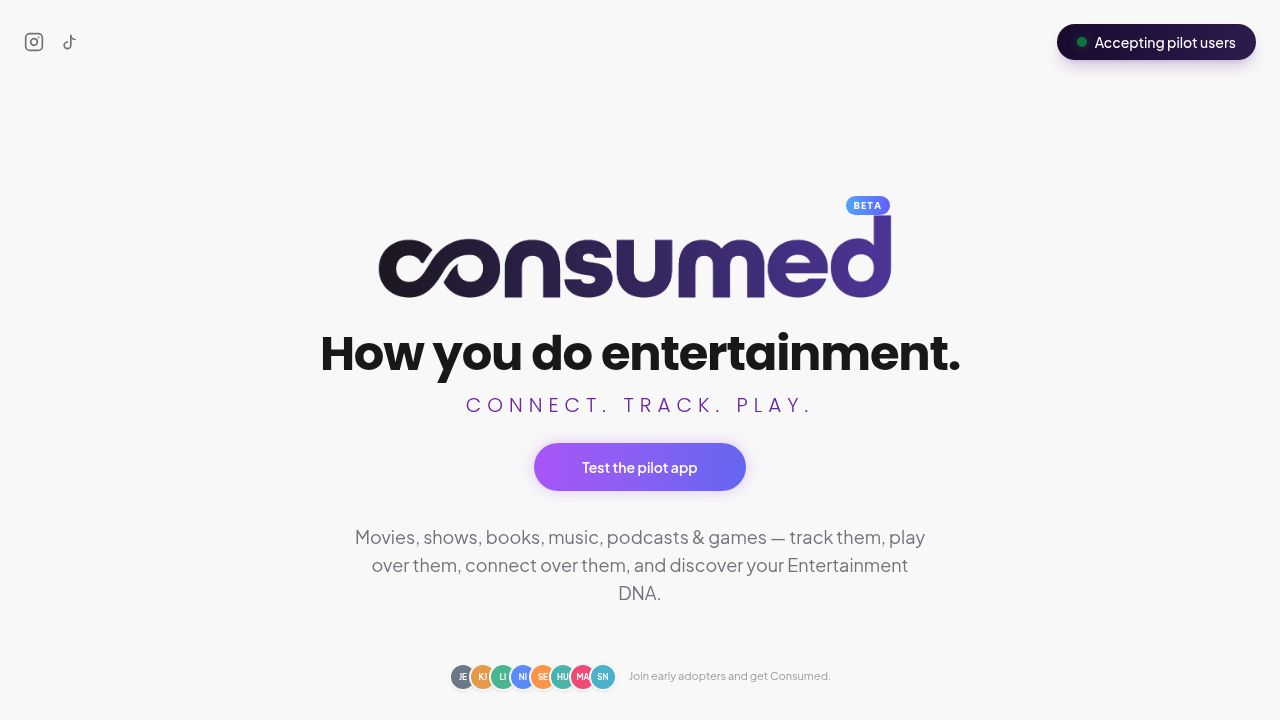
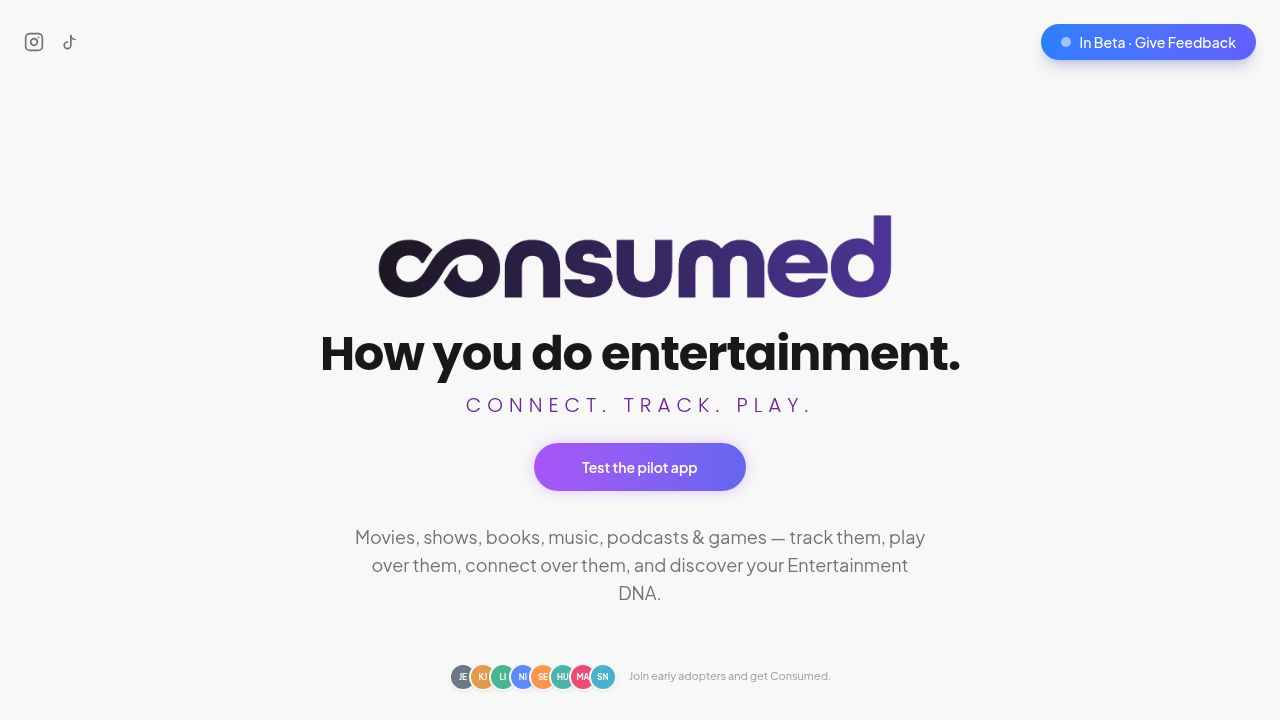
Add a way for users to submit feedback directly through the application
Integrates a new feedback form and modal into the React frontend, updates API routes to handle feedback submission, and modifies the storage layer to persist feedback data to the database.

Replit-Commit-Author: Agent
Replit-Commit-Session-Id: 1054afe4-a81a-4bfc-9d50-b308ff59b433
Replit-Commit-Checkpoint-Type: full_checkpoint
Replit-Commit-Event-Id: 7b5fe816-258e-4707-9f8c-019a9b3d6581
Replit-Commit-Screenshot-Url: https://storage.googleapis.com/screenshot-production-us-central1/3ba4014b-a542-439a-b8e3-25ffaea1718b/1054afe4-a81a-4bfc-9d50-b308ff59b433/bXGSChU
Replit-Helium-Checkpoint-Created: true

Changed region(s): [[0.8125, 0.0306, 1.0, 0.0917], [0.6562, 0.275, 0.7188, 0.3056]]

diff --git a/client/src/pages/home.tsx b/client/src/pages/home.tsx
@@ -3,7 +3,7 @@ import { motion, AnimatePresence } from "framer-motion";
 import { Smartphone, Globe, Music, Gamepad2, Tv, Film, BookOpen, Mic, Star, TrendingUp, Activity, Search, User, UserCircle, Plus, Share2, Download, RefreshCw, MoreHorizontal, Play, Heart, MessageSquare, Trophy, ChevronRight, Instagram, Bell, X, Loader2, Dna, ListChecks, Dice5, Users } from "lucide-react";
 import { Button } from "@/components/ui/button";
 import { Carousel, CarouselContent, CarouselItem, CarouselNext, CarouselPrevious } from "@/components/ui/carousel";
-import { Dialog, DialogContent, DialogHeader, DialogTitle } from "@/components/ui/dialog";
+import { Dialog, DialogContent, DialogHeader, DialogTitle, DialogDescription } from "@/components/ui/dialog";
 import { Input } from "@/components/ui/input";
 import bgImage from "@assets/generated_images/subtle_dark_purple_and_black_mesh_gradient_professional_background.png";
 import logoPurple from "@assets/consumed_logo_purple_crop_1769629036769.png";
@@ -40,9 +40,15 @@ export default function Home() {
   ];
   const [index, setIndex] = useState(0);
   const [isModalOpen, setIsModalOpen] = useState(false);
+  const [isFeedbackOpen, setIsFeedbackOpen] = useState(false);
   const [email, setEmail] = useState("");
+  const [feedbackEmail, setFeedbackEmail] = useState("");
+  const [feedbackMessage, setFeedbackMessage] = useState("");
+  const [feedbackSubmitted, setFeedbackSubmitted] = useState(false);
   const [isSubmitting, setIsSubmitting] = useState(false);
+  const [isFeedbackSubmitting, setIsFeedbackSubmitting] = useState(false);
   const [submitMessage, setSubmitMessage] = useState<{ type: 'success' | 'error', text: string } | null>(null);
+  const [feedbackError, setFeedbackError] = useState<string | null>(null);
 
   useEffect(() => {
     const interval = setInterval(() => {
@@ -94,6 +100,32 @@ export default function Home() {
     }
   };
 
+  const handleFeedback = async (e: React.FormEvent) => {
+    e.preventDefault();
+    if (!feedbackMessage.trim()) return;
+    setIsFeedbackSubmitting(true);
+    setFeedbackError(null);
+    try {
+      const response = await fetch('/api/feedback', {
+        method: 'POST',
+        headers: { 'Content-Type': 'application/json' },
+        body: JSON.stringify({ email: feedbackEmail || undefined, message: feedbackMessage }),
+      });
+      const data = await response.json();
+      if (response.ok) {
+        setFeedbackSubmitted(true);
+        setFeedbackEmail("");
+        setFeedbackMessage("");
+      } else {
+        setFeedbackError(data.error || 'Something went wrong.');
+      }
+    } catch {
+      setFeedbackError('Failed to connect. Please try again.');
+    } finally {
+      setIsFeedbackSubmitting(false);
+    }
+  };
+
   return (
     <div className="min-h-screen bg-[#f8f8f8] text-zinc-900 overflow-x-hidden selection:bg-primary/30">
       {/* Background */}
@@ -115,13 +147,14 @@ export default function Home() {
           transition={{ delay: 0.1 }}
           className="flex items-center gap-6"
         >
-          <a 
-            href="mailto:feedback@consumedapp.com?subject=Consumed Beta Feedback"
+          <button
+            data-testid="button-feedback"
+            onClick={() => { setIsFeedbackOpen(true); setFeedbackSubmitted(false); }}
             className="flex items-center space-x-2 bg-gradient-to-r from-blue-500 to-indigo-500 rounded-full px-3 py-1.5 md:px-5 md:py-2 shadow-lg shadow-blue-900/20 hover:opacity-90 transition-all"
           >
             <span className="flex h-2 w-2 md:h-2.5 md:w-2.5 rounded-full bg-white animate-pulse flex-shrink-0"></span>
             <span className="text-xs md:text-sm font-medium text-white font-body whitespace-nowrap">In Beta · Give Feedback</span>
-          </a>
+          </button>
         </motion.div>
       </nav>
 
@@ -418,6 +451,72 @@ export default function Home() {
                     "Notify me"
                   )}
                 </Button>
+              </form>
+            </>
+          )}
+        </DialogContent>
+      </Dialog>
+
+      {/* Feedback Modal */}
+      <Dialog open={isFeedbackOpen} onOpenChange={(open) => { setIsFeedbackOpen(open); if (!open) setFeedbackSubmitted(false); }}>
+        <DialogContent className="bg-white rounded-2xl border border-zinc-100 shadow-2xl max-w-md w-full p-8">
+          {feedbackSubmitted ? (
+            <div className="flex flex-col items-center gap-4 py-6 text-center">
+              <div className="w-14 h-14 rounded-full bg-gradient-to-br from-purple-100 to-indigo-100 flex items-center justify-center">
+                <svg className="w-7 h-7 text-purple-600" fill="none" viewBox="0 0 24 24" stroke="currentColor" strokeWidth={2}>
+                  <path strokeLinecap="round" strokeLinejoin="round" d="M5 13l4 4L19 7" />
+                </svg>
+              </div>
+              <h2 className="text-2xl font-bold text-zinc-900 font-heading">Thanks so much!</h2>
+              <p className="text-zinc-500 font-body text-sm leading-relaxed">Your feedback helps shape Consumed. We read every single message.</p>
+              <button
+                onClick={() => setIsFeedbackOpen(false)}
+                className="mt-2 px-6 py-2.5 rounded-full bg-gradient-to-r from-[#a855f7] to-[#6366f1] text-white text-sm font-semibold hover:opacity-90 transition-all font-body"
+              >
+                Done
+              </button>
+            </div>
+          ) : (
+            <>
+              <DialogHeader className="mb-6">
+                <DialogTitle className="text-2xl font-bold text-zinc-900 font-heading">Give Feedback</DialogTitle>
+                <DialogDescription className="text-zinc-500 font-body text-sm mt-1">
+                  Tell us what you love, what's broken, or what you'd love to see.
+                </DialogDescription>
+              </DialogHeader>
+              <form onSubmit={handleFeedback} className="flex flex-col gap-4">
+                <input
+                  type="email"
+                  placeholder="Your email (optional)"
+                  value={feedbackEmail}
+                  onChange={(e) => setFeedbackEmail(e.target.value)}
+                  data-testid="input-feedback-email"
+                  className="w-full h-11 px-4 rounded-xl border border-zinc-200 bg-zinc-50 text-sm font-body text-zinc-800 placeholder:text-zinc-400 focus:outline-none focus:ring-2 focus:ring-purple-300"
+                />
+                <textarea
+                  placeholder="What's on your mind?"
+                  value={feedbackMessage}
+                  onChange={(e) => setFeedbackMessage(e.target.value)}
+                  required
+                  rows={5}
+                  data-testid="input-feedback-message"
+                  className="w-full px-4 py-3 rounded-xl border border-zinc-200 bg-zinc-50 text-sm font-body text-zinc-800 placeholder:text-zinc-400 focus:outline-none focus:ring-2 focus:ring-purple-300 resize-none"
+                />
+                {feedbackError && (
+                  <p className="text-red-500 text-xs font-body">{feedbackError}</p>
+                )}
+                <button
+                  type="submit"
+                  disabled={isFeedbackSubmitting || !feedbackMessage.trim()}
+                  data-testid="button-submit-feedback"
+                  className="w-full h-11 text-sm font-semibold rounded-full bg-gradient-to-r from-[#a855f7] to-[#6366f1] text-white hover:opacity-90 transition-all active:scale-95 shadow-[0_0_15px_rgba(168,85,247,0.3)] font-body disabled:opacity-50 disabled:cursor-not-allowed"
+                >
+                  {isFeedbackSubmitting ? (
+                    <Loader2 className="h-4 w-4 animate-spin mx-auto" />
+                  ) : (
+                    "Send Feedback"
+                  )}
+                </button>
               </form>
             </>
           )}

diff --git a/server/storage.ts b/server/storage.ts
@@ -1,4 +1,4 @@
-import { type User, type InsertUser, type Subscriber, type InsertSubscriber, users, subscribers } from "@shared/schema";
+import { type User, type InsertUser, type Subscriber, type InsertSubscriber, type Feedback, type InsertFeedback, users, subscribers, feedback } from "@shared/schema";
 import { db } from "./db";
 import { eq } from "drizzle-orm";
 
@@ -8,6 +8,7 @@ export interface IStorage {
   createUser(user: InsertUser): Promise<User>;
   addSubscriber(email: string): Promise<Subscriber>;
   getSubscriberByEmail(email: string): Promise<Subscriber | undefined>;
+  addFeedback(data: InsertFeedback): Promise<Feedback>;
 }
 
 export class DatabaseStorage implements IStorage {
@@ -34,6 +35,11 @@ export class DatabaseStorage implements IStorage {
   async getSubscriberByEmail(email: string): Promise<Subscriber | undefined> {
     const [subscriber] = await db.select().from(subscribers).where(eq(subscribers.email, email));
     return subscriber;
+  }
+
+  async addFeedback(data: InsertFeedback): Promise<Feedback> {
+    const [entry] = await db.insert(feedback).values(data).returning();
+    return entry;
   }
 }
 

diff --git a/server/routes.ts b/server/routes.ts
@@ -1,7 +1,7 @@
 import type { Express } from "express";
 import { createServer, type Server } from "http";
 import { storage } from "./storage";
-import { insertSubscriberSchema } from "@shared/schema";
+import { insertSubscriberSchema, insertFeedbackSchema } from "@shared/schema";
 
 export async function registerRoutes(
   httpServer: Server,
@@ -24,6 +24,20 @@ export async function registerRoutes(
     } catch (error) {
       console.error("Subscribe error:", error);
       return res.status(500).json({ error: "Something went wrong" });
+    }
+  });
+
+  app.post("/api/feedback", async (req, res) => {
+    try {
+      const result = insertFeedbackSchema.safeParse(req.body);
+      if (!result.success) {
+        return res.status(400).json({ error: "Please include a message." });
+      }
+      await storage.addFeedback(result.data);
+      return res.status(201).json({ message: "Thanks for your feedback!" });
+    } catch (error) {
+      console.error("Feedback error:", error);
+      return res.status(500).json({ error: "Something went wrong." });
     }
   });
 
